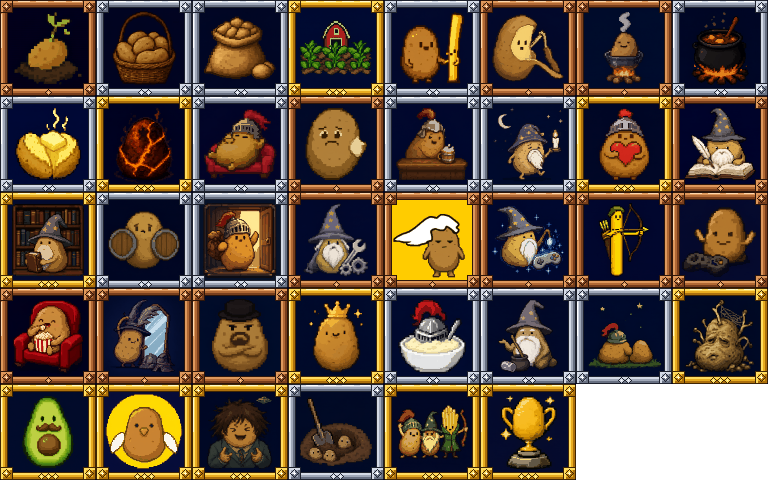
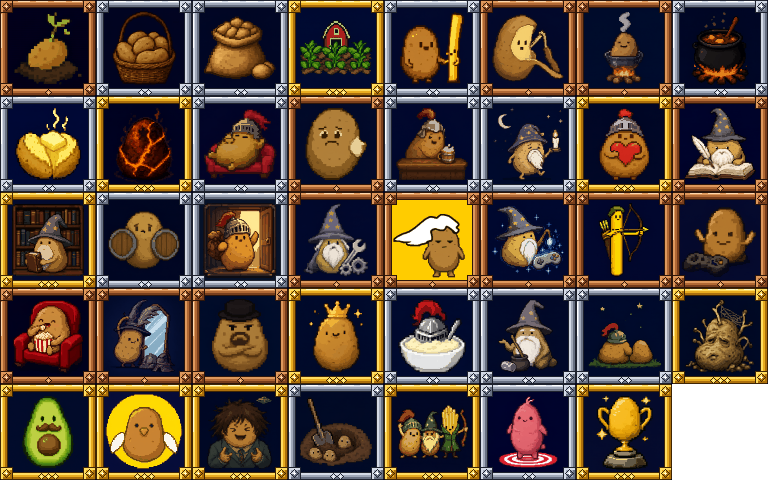
Give achievements points, and the sweet potato for twenty of them
The sweet potato was to be unlocked "by progress" and nothing said
what progress was.

An achievement is now worth points by its metal: bronze one, silver
two, gold four. Twenty points from the other achievements earn a new
one, Sweet Spot, and that is the achievement that gives the sweet
potato as a character. It is decided after the whole party, which
counts for the points, and in the same pass as the achievements that
bring the points, so it is told together with them. Its own points do
not count towards itself. There are 39 achievements and 87 points.

Four more achievements give the avatar something: having played an MV
and an MZ game, a little French fry as a companion; having played on
seven days, a beer mug for the hand; coming back after time away, the
little wizard potato as a companion; taking a game off the list, the
top of the character peeled, in its own colour. Coming back now means
twenty days away, not thirty.

Checked: tests for the points, for Sweet Spot at eighteen and at
twenty points, for the new prizes and for the twenty days, and the
earlier ones. Not checked: in the player, where the points are not
shown yet.

Changed region(s): [[0.625, 0.7812, 0.875, 1.0]]

diff --git a/player/js/achievements-model.js b/player/js/achievements-model.js
@@ -24,7 +24,7 @@
 //   crashed          a game ended with an error
 //   carriedOn        a game ran without something it asked for
 //   waited           a minute spent on a list with no games
-//   cameBack         played again after 30 days away
+//   cameBack         played again after 20 days away
 //   dug, dressed, named   the achievements were found; the avatar was
 //                         changed; the profile was given a name
 //   notAGame         "Add a game" was pointed at something that is no game
@@ -39,7 +39,7 @@
 
   // id, name, how it is earned (shown to the user), the metal of its frame
   // (bronze: comes by itself; silver: takes some doing; gold: rare), the
-  // hero it belongs to, and the test on the stats. `over` marks the two
+  // hero it belongs to, and the test on the stats. `over` marks the ones
   // that are earned from other achievements instead; a last `true` marks a
   // secret one, which shows neither its name nor how until it is earned.
   var LIST = [
@@ -78,26 +78,36 @@
     ['mashed', 'Mashed', 'Have a game end with an error', 'silver', 'party', flag('crashed')],
     ['missing-ingredients', 'Missing Ingredients', 'Play a game that lacked something and ran anyway', 'silver', 'party', flag('carriedOn')],
     ['good-company', 'Good Company', 'Wait a minute on a list with no games', 'silver', 'party', flag('waited')],
-    ['wrinkled', 'Wrinkled', 'Come back after 30 days away', 'gold', 'party', flag('cameBack')],
+    ['wrinkled', 'Wrinkled', 'Come back after 20 days away', 'gold', 'party', flag('cameBack')],
     ['not-a-potato', 'Notato', 'That\'s not a potato. That\'s not even a game.', 'gold', 'party', flag('notAGame'), null, true],
     ['early-birdtato', 'Early Birdtato', 'Be here before 2028', 'gold', 'party', flag('early')],
     ['aliens', 'Aliens', 'I\'m not saying it was aliens, but you touched the sky ten times', 'gold', 'party', flag('aliens'), null, true],
 
     ['dug-up', 'Dug Up', 'Find the achievements', 'silver', 'wizard', flag('dug')],
     ['whole-party', 'The Whole Party', 'Earn one achievement of each hero', 'gold', 'party', null, 'heroes'],
+    ['sweet-spot', 'Sweet Spot', 'Reach 20 points with your achievements', 'silver', 'party', null, 'points'],
     ['completionist', 'Completionist', 'Earn every other achievement', 'gold', 'party', null, 'all'],
   ].map(function (row) {
     return { id: row[0], name: row[1], how: row[2], metal: row[3], hero: row[4], test: row[5], over: row[6] || null, secret: !!row[7] };
   });
   var HEROES = ['knight', 'wizard', 'archer'];
 
-  // Whether one of the two achievements earned from others is earned, given
-  // the ids held so far.
+  // What an achievement is worth: the rarer its metal, the more.
+  var POINTS = { bronze: 1, silver: 2, gold: 4 }, SWEET_SPOT = 20;
+  function pointsOf(has) {
+    return LIST.reduce(function (sum, each) { return sum + (has(each.id) ? POINTS[each.metal] : 0); }, 0);
+  }
+  function points(earned) { return pointsOf(function (id) { return (earned || []).indexOf(id) >= 0; }); }
+
+  // Whether one of the achievements earned from others is earned, given the
+  // ids held so far. They are looked at in the order of the list: the
+  // whole party counts for the points, and both count for the last one.
   function overOthers(each, held) {
-    var mine = LIST.filter(function (other) { return !other.over && held[other.id]; });
     if (each.over === 'heroes') {
+      var mine = LIST.filter(function (other) { return !other.over && held[other.id]; });
       return HEROES.every(function (hero) { return mine.some(function (other) { return other.hero === hero; }); });
     }
+    if (each.over === 'points') return pointsOf(function (id) { return id !== each.id && held[id]; }) >= SWEET_SPOT;
     return LIST.every(function (other) { return other.id === each.id || held[other.id]; });
   }
 
@@ -134,15 +144,22 @@
   var DRESSED = { clothes: 'burlap-sack' };
   // What an achievement gives the avatar: pieces for its slots.
   var PRIZES = {
+    // Not a hat: the top of the character with its skin peeled off, showing
+    // the flesh under it, in each character's own colour (pale on a
+    // potato, light green on the dark green avocado).
+    'peeled': [{ slot: 'head', item: 'peeled-top' }],
     // The weapon slot is what the avatar holds: a quill goes there too.
     'dear-diary': [{ slot: 'weapon', item: 'quill' }],
     'precious-memories': [{ slot: 'face', item: 'scholar-glasses' }],
     'better-safe': [{ slot: 'accessory', item: 'two-shields' }],
+    'regular-customer': [{ slot: 'weapon', item: 'beer-mug' }],
     'midnight-snack': [{ slot: 'clothes', item: 'pyjamas' }, { slot: 'head', item: 'nightcap' }],
     'movie-night': [{ slot: 'weapon', item: 'popcorn-bucket' }, { slot: 'head', item: 'popcorn-bucket-hat' }],
     'true-potato': [{ slot: 'head', item: 'crown' }, { slot: 'weapon', item: 'sceptre' }],
+    'wrinkled': [{ slot: 'companion', item: 'little-wizard' }],
     'mashed': [{ slot: 'weapon', item: 'spoon' }],
     'loyal-spud': [{ slot: 'accessory', item: 'heart' }],
+    'sweet-spot': [{ slot: 'character', item: 'sweet-potato' }],
     'completionist': [{ slot: 'character', item: 'golden-potato' }],
     'dressed-up': [{ slot: 'clothes', item: 'tuxedo' }],
     'dug-up': [{ slot: 'weapon', item: 'shovel' }],
@@ -150,6 +167,7 @@
     'named': [{ slot: 'head', item: 'pork-pie-hat' }, { slot: 'face', item: 'goatee' }],
     'not-a-potato': [{ slot: 'character', item: 'avocado' }],
     'first-sprout': [{ slot: 'companion', item: 'sprout-pot' }],
+    'two-kinds': [{ slot: 'companion', item: 'little-fry' }],
     'aliens': [{ slot: 'head', item: 'tinfoil-hat' }, { slot: 'companion', item: 'little-alien' }],
     'early-birdtato': [{ slot: 'accessory', item: 'wings' }, { slot: 'companion', item: 'potato-chick' }],
     'good-company': [{ slot: 'companion', item: 'little-knight' }],
@@ -165,5 +183,5 @@
   var EARLY_BEFORE_YEAR = 2028;
   function isEarly(date) { return date.getFullYear() < EARLY_BEFORE_YEAR; }
 
-  globalThis.__achievements = { LIST: LIST, SLOTS: SLOTS, DRESSED: DRESSED, PRIZES: PRIZES, blank: blank, update: update, shown: shown, unlocked: unlocked, isEarly: isEarly };
+  globalThis.__achievements = { LIST: LIST, SLOTS: SLOTS, DRESSED: DRESSED, PRIZES: PRIZES, blank: blank, update: update, shown: shown, unlocked: unlocked, points: points, POINTS: POINTS, isEarly: isEarly };
 })();

diff --git a/player/tests/js/achievements_model.test.js b/player/tests/js/achievements_model.test.js
@@ -83,7 +83,7 @@ const tests = {
       assert.ok(['bronze', 'silver', 'gold'].includes(each.metal), each.id);
       assert.ok(['knight', 'wizard', 'archer', 'party'].includes(each.hero), each.id);
     }
-    assert.strictEqual(model.LIST.length, 38);
+    assert.strictEqual(model.LIST.length, 39);
   },
 
   'a secret achievement does not say how it is earned until it is'() {
@@ -116,6 +116,10 @@ const tests = {
     assert.deepStrictEqual(plain(model.unlocked(['first-sprout'])), [{ slot: 'companion', item: 'sprout-pot' }]);
     assert.deepStrictEqual(plain(model.unlocked(['dressed-up'])), [{ slot: 'clothes', item: 'tuxedo' }]);
     assert.deepStrictEqual(plain(model.unlocked(['dug-up'])), [{ slot: 'weapon', item: 'shovel' }]);
+    assert.deepStrictEqual(plain(model.unlocked(['two-kinds'])), [{ slot: 'companion', item: 'little-fry' }]);
+    assert.deepStrictEqual(plain(model.unlocked(['regular-customer'])), [{ slot: 'weapon', item: 'beer-mug' }]);
+    assert.deepStrictEqual(plain(model.unlocked(['wrinkled'])), [{ slot: 'companion', item: 'little-wizard' }]);
+    assert.deepStrictEqual(plain(model.unlocked(['peeled'])), [{ slot: 'head', item: 'peeled-top' }]);
     assert.deepStrictEqual(plain(model.unlocked(['aliens'])), [{ slot: 'head', item: 'tinfoil-hat' }, { slot: 'companion', item: 'little-alien' }]);
     assert.deepStrictEqual(plain(model.unlocked(['dear-diary', 'precious-memories', 'better-safe'])),
       [{ slot: 'weapon', item: 'quill' }, { slot: 'face', item: 'scholar-glasses' }, { slot: 'accessory', item: 'two-shields' }]);
@@ -131,6 +135,28 @@ const tests = {
   'the avatar starts dressed in a burlap sack, and with nothing in the other slots'() {
     assert.deepStrictEqual(plain(model.DRESSED), { clothes: 'burlap-sack' });
     for (const slot of Object.keys(model.DRESSED)) assert.ok(plain(model.SLOTS).includes(slot), slot);
+  },
+
+  'achievements are worth points by their metal: bronze one, silver two, gold four'() {
+    assert.strictEqual(model.points([]), 0);
+    assert.strictEqual(model.points(['warm-up']), 1);            // bronze
+    assert.strictEqual(model.points(['warm-up', 'slow-cooked']), 3);   // and a silver
+    assert.strictEqual(model.points(['warm-up', 'slow-cooked', 'baked-through']), 7);   // and a gold
+    assert.strictEqual(model.points(['gone-in-a-later-version']), 0);
+    assert.strictEqual(model.points(model.LIST.map((each) => each.id)), 87);
+  },
+
+  'twenty points from other achievements earn Sweet Spot, which gives the sweet potato'() {
+    // four golds and a silver make 18
+    const eighteen = ['potato-farm', 'baked-through', 'wrinkled', 'whole-party', 'slow-cooked'];
+    assert.strictEqual(model.points(eighteen), 18);
+    assert.ok(!ids({}, eighteen).includes('sweet-spot'));
+    const twenty = ids({}, eighteen.concat(['well-done']));
+    assert.ok(twenty.includes('sweet-spot'));
+    assert.deepStrictEqual(plain(model.update(eighteen, { seconds: 25 * HOUR }).fresh), ['warm-up', 'well-done', 'sweet-spot']);
+    assert.deepStrictEqual(plain(model.unlocked(['sweet-spot'])), [{ slot: 'character', item: 'sweet-potato' }]);
+    // its own points do not count towards itself
+    assert.ok(!ids({}, ['potato-farm', 'baked-through', 'wrinkled', 'whole-party', 'sweet-spot'].slice(0, 4)).includes('sweet-spot'));
   },
 
   'each flag or count earns its own achievement and no other'() {

diff --git a/player/js/profile-model.js b/player/js/profile-model.js
@@ -12,7 +12,7 @@
 // taken off) the list sets directly.
 (function () {
   'use strict';
-  var MONTH = 30 * 86400, SLOW_OVER = 20 * 60;
+  var AWAY = 20 * 86400, SLOW_OVER = 20 * 60;
 
   function blank() {
     return {
@@ -64,7 +64,7 @@
     // may be a menu left open or a game that did not start.
     if (seconds > SLOW_OVER && (session.frames || 0) / seconds < 20) stats.slowSession = true;
     if (session.hour >= 2 && session.hour < 5) stats.nightSession = true;
-    if (session.start && stats.lastStart && session.start - stats.lastStart >= MONTH) stats.cameBack = true;
+    if (session.start && stats.lastStart && session.start - stats.lastStart >= AWAY) stats.cameBack = true;
     if (session.start) stats.lastStart = Math.max(stats.lastStart, session.start);
     if (session.code) stats.crashed = true;
     Object.keys(FLAGS).forEach(function (key) { if (session[key]) stats[FLAGS[key]] = true; });

diff --git a/player/tests/js/profile_model.test.js b/player/tests/js/profile_model.test.js
@@ -79,10 +79,10 @@ const tests = {
     assert.strictEqual(!!after(line({ hour: 5 })).nightSession, false);
   },
 
-  'coming back is playing again thirty days after the last time'() {
+  'coming back is playing again twenty days after the last time'() {
     const start = 1795032000;
-    assert.strictEqual(!!after(line({ start }), line({ start: start + 29 * DAY })).cameBack, false);
-    assert.strictEqual(!!after(line({ start }), line({ start: start + 30 * DAY })).cameBack, true);
+    assert.strictEqual(!!after(line({ start }), line({ start: start + 19 * DAY })).cameBack, false);
+    assert.strictEqual(!!after(line({ start }), line({ start: start + 20 * DAY })).cameBack, true);
     assert.strictEqual(!!after(line({ start })).cameBack, false);
   },
 
